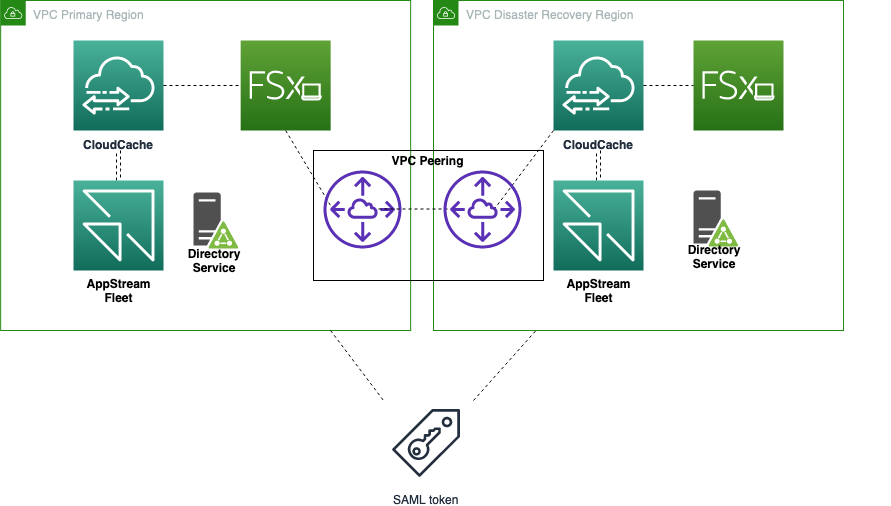
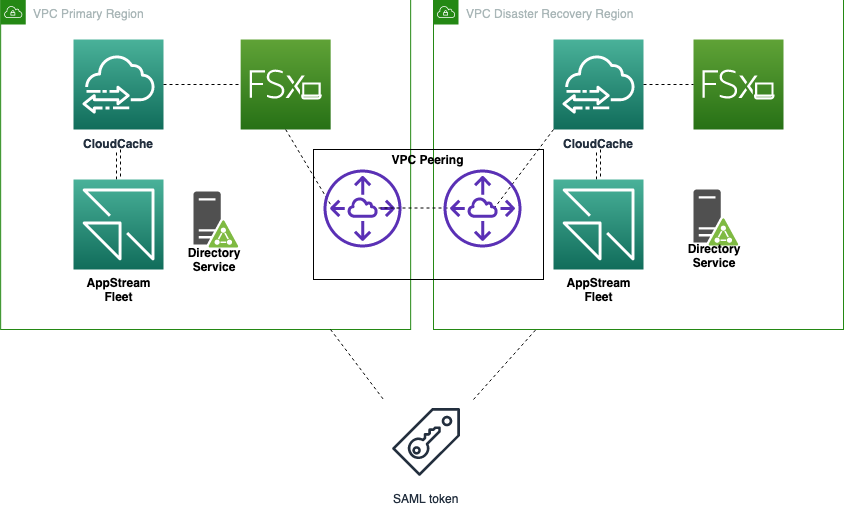
fixed image7, trim image1 and formatting fixes

diff --git a/tutorials/building-multi-region-disaster-recovery-for-amazon-appstream2.0/index.md b/tutorials/building-multi-region-disaster-recovery-for-amazon-appstream2.0/index.md
@@ -144,12 +144,10 @@ The high level steps is as follows:
 
 ```powershell
 New-Item -Path '\\fsxPrimary.asx.local\D$' -Name Profiles -ItemType Directory
-
 ```
 
 ```powershell
 New-Item -Path '\\fsxDR.asx.local\D$' -Name Profiles -ItemType Directory
-
 ```
 
  
@@ -216,7 +214,7 @@ network share*
 
 Figure 4: Share permissions of profiles folder
 
-## Step 3: Install and configure FSLogix
+### Step 3: Install and configure FSLogix
 
 **To prepare Amazon AppStream 2.0 image with the FSlogix agent
 software**
